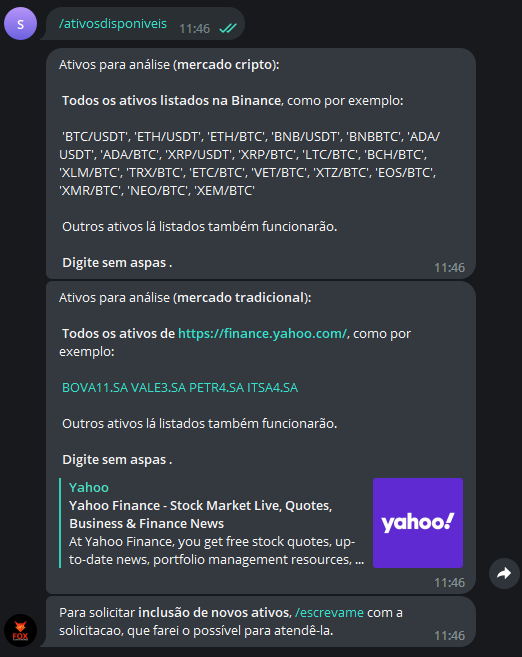
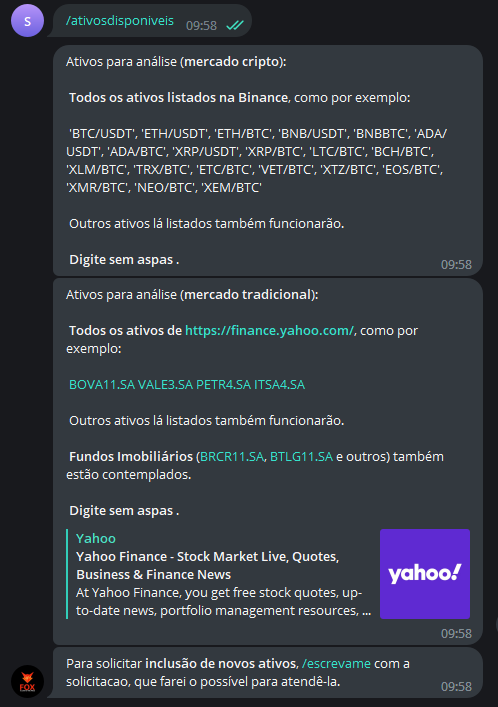
Deployed 88f2242 with MkDocs version: 1.4.2

Changed region(s): [[0.0, 0.0, 1.0, 1.0], [0.0, 0.0, 0.0904, 0.0609]]

diff --git a/index.html b/index.html
@@ -669,7 +669,7 @@
 bot para Telegram <strong>FOX - A LINK TO THE PRICE</strong>.</p>
 <p>Este robô foi desenvolvido com o propósito de fornecer
 dados e análises em tempo real de ativos de diferentes
-mercados financeiros (NYSE, B3, Criptomoedas e outros) 
+mercados financeiros (NYSE, B3, Criptomoedas, Fundos Imobiliários e outros) 
 utilizando <strong>Price Action</strong>, <strong>Machine Learning</strong>, 
 <strong>Análise Técnica</strong>, <strong>Análise Fundamentalista</strong> e <strong>Análise Estatística</strong>.</p>
 <hr />

diff --git a/ajuda/index.html b/ajuda/index.html
@@ -654,7 +654,16 @@
 
   <h1>/ajuda</h1>
 
-<p>Em construção....</p>
+<p>Este comando exibe um breve descritivo de
+todos os comandos disponíveis no Fox - A Link to the Price, 
+seguido de um link para o guia do usuário, onde
+podem ser encontradas maiores informações.</p>
+<p>Para utilizá-lo, digite: </p>
+<pre><code class="language-console">/ajuda
+</code></pre>
+<p>E verá como saída: </p>
+<p><img alt="" src="../img/ajuda1.png" />
+<img alt="" src="../img/ajuda2.png" /></p>
 
 
 
